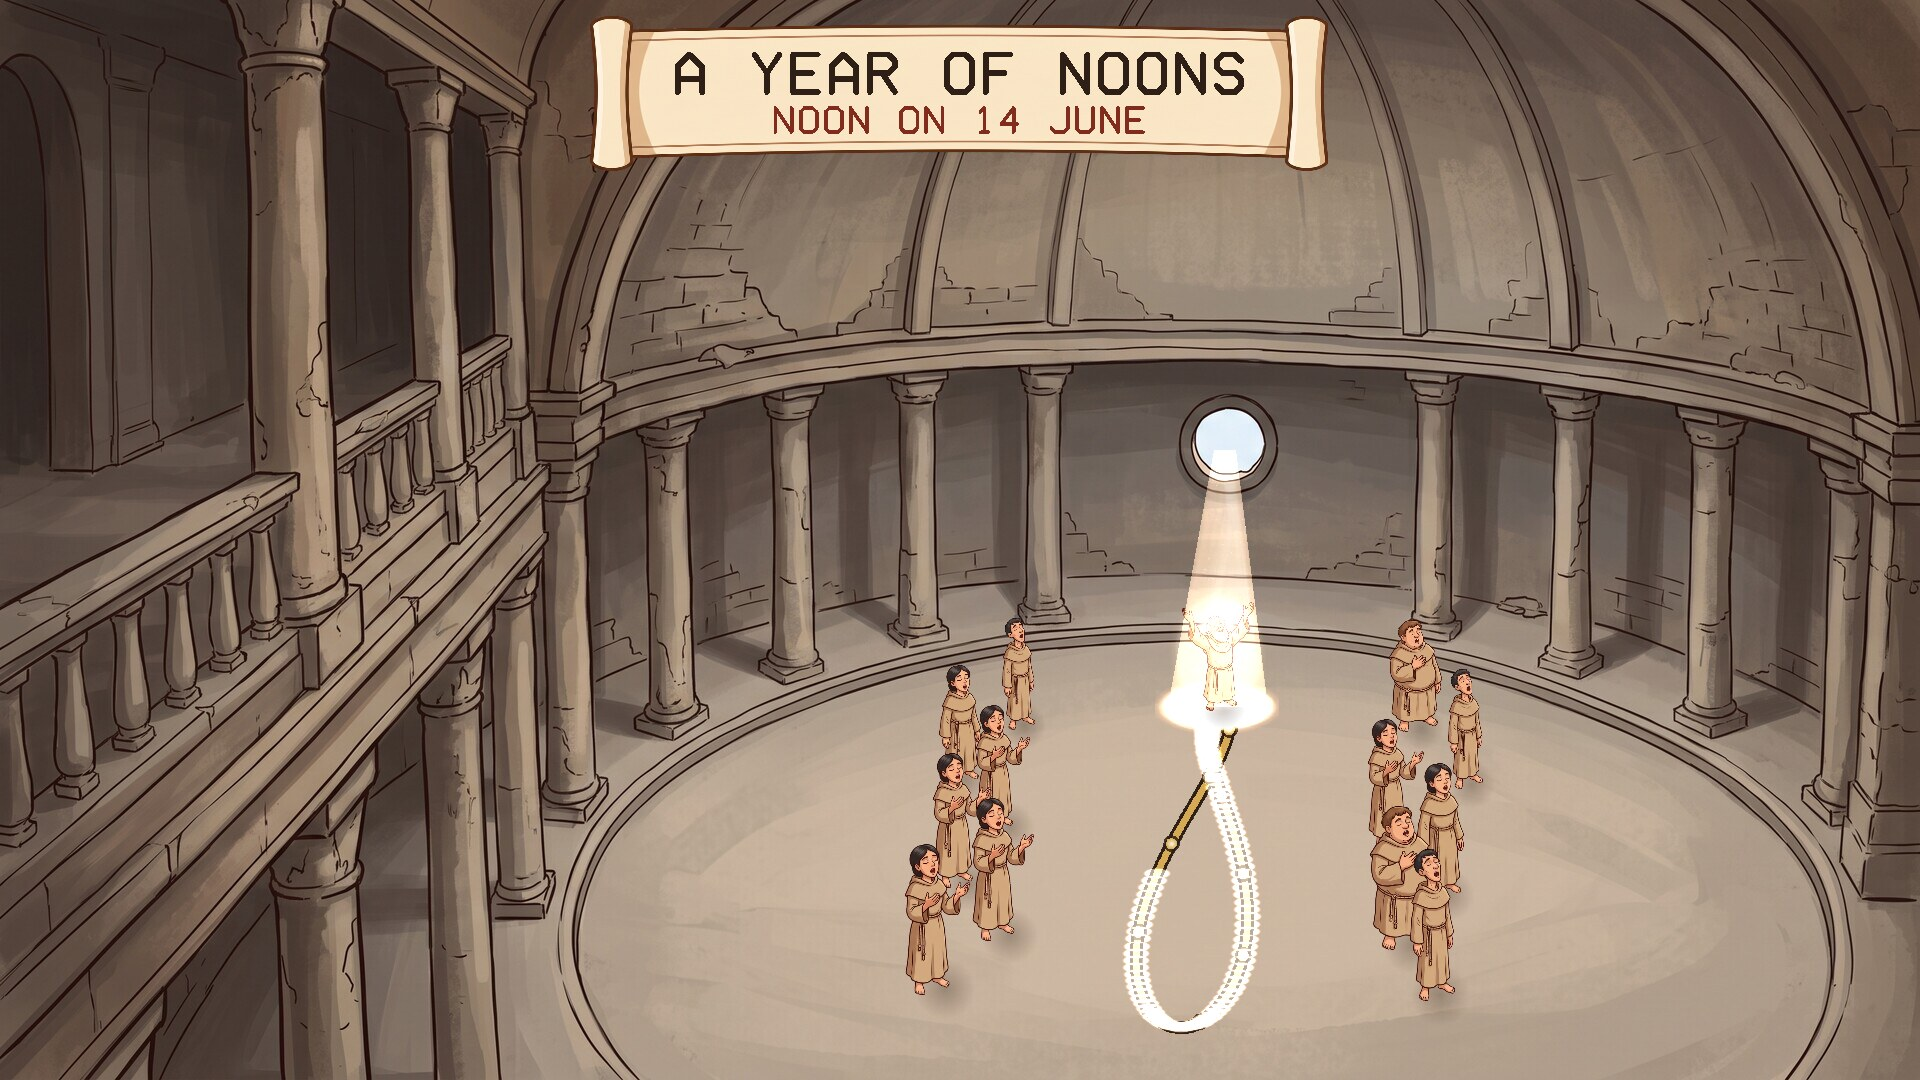
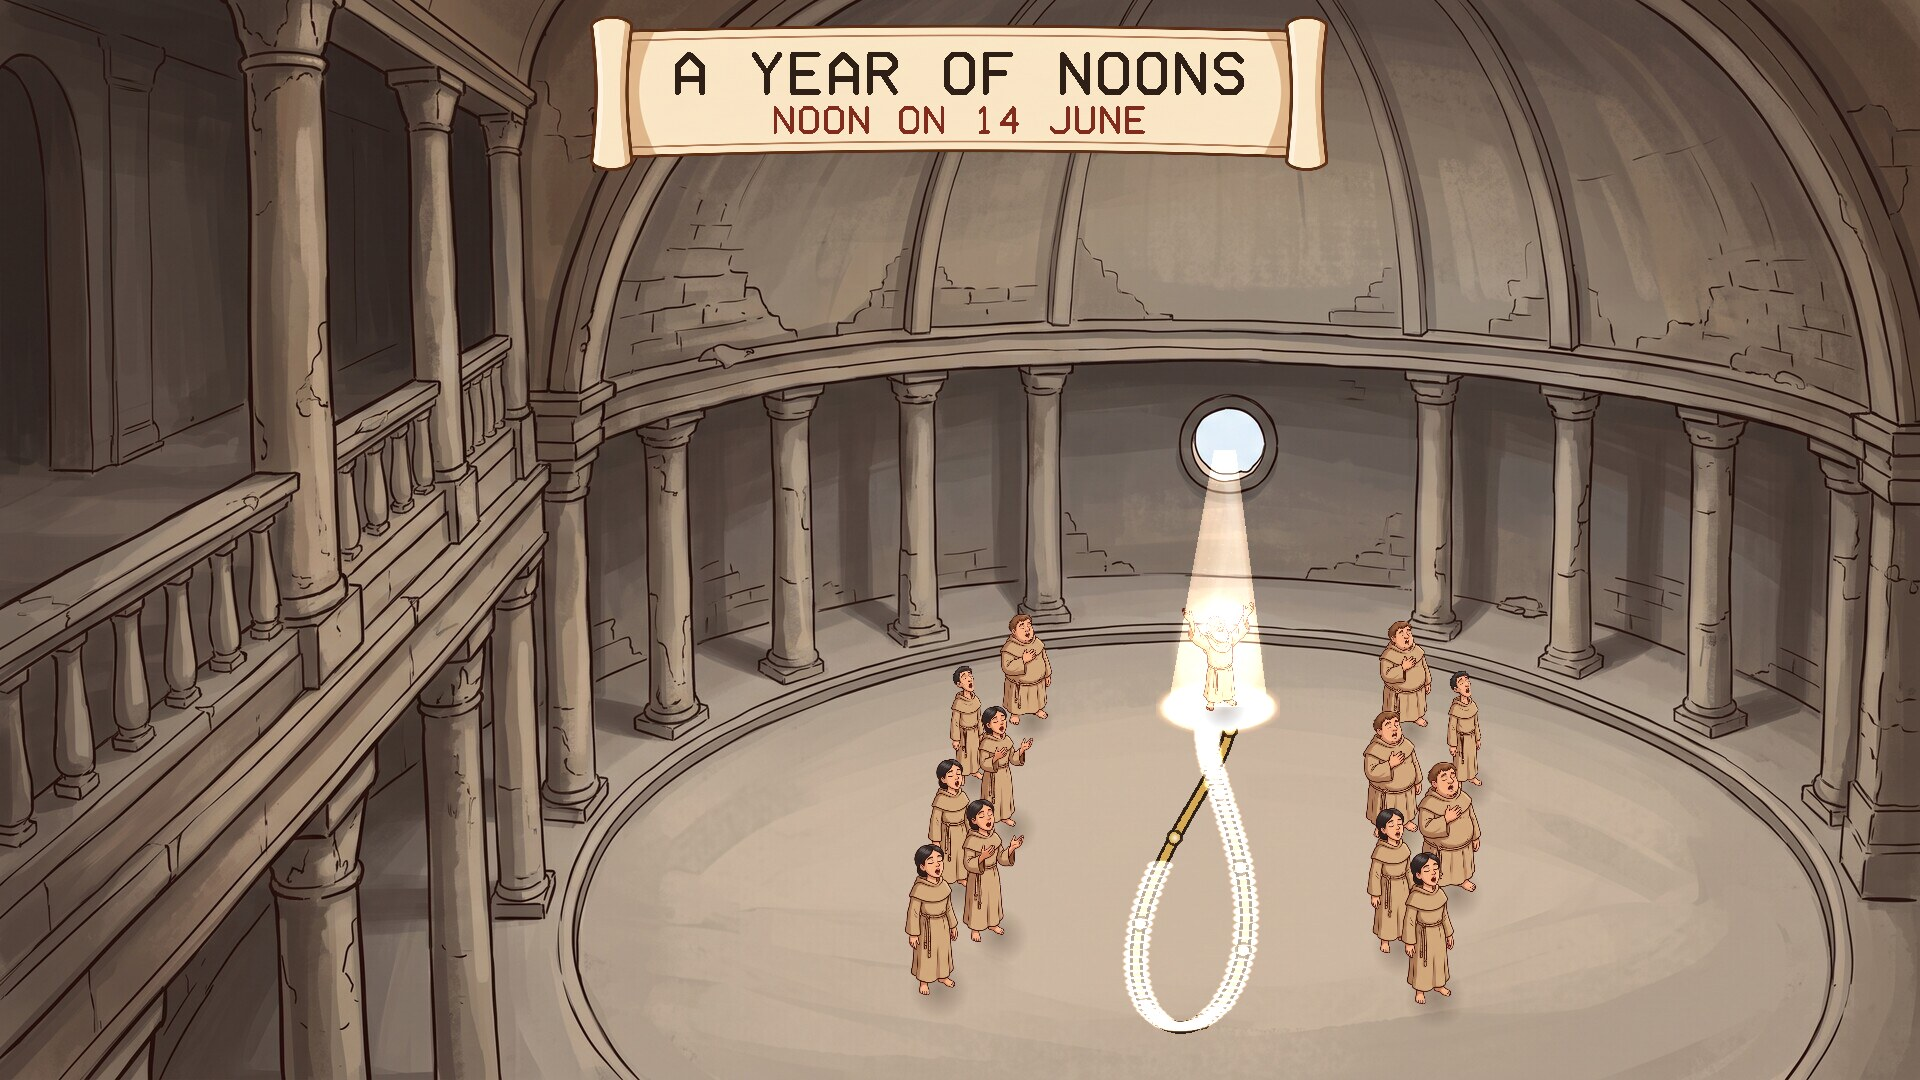
The sun by the Almanac's method, summer time allowed for, the spot drawn out when the sun is low

Changed region(s): [[0.6875, 0.5806, 0.7812, 0.9167], [0.4688, 0.5806, 0.5625, 0.9167], [0.5938, 0.7333, 0.6562, 0.9472]]

diff --git a/src/analemma.c b/src/analemma.c
@@ -256,6 +256,8 @@ static const double SOUTH_U = 0.04, SOUTH_V = 0.9992; /* which way south is on t
 static double T, anim_t;
 static uint64_t seed_state;
 static double now_day, now_hours;  /* today as a day of the year (0 = 1 January), and the time by the clock */
+static double now_clock;           /* the time as the clock shows it, summer time and all */
+static int now_year = 2026;        /* for the sun; the figure shifts very slightly from year to year */
 static int opt_day = -1;           /* --date: show this day instead of today */
 static double opt_hours = -1;      /* --at: show this time instead of now */
 #define T_DAY 11.0   /* noon today */
@@ -280,6 +282,10 @@ static void read_time(void)
     struct tm *tm = localtime(&tt);
     now_day = tm ? tm->tm_yday : 0;
     now_hours = tm ? tm->tm_hour + tm->tm_min / 60.0 + tm->tm_sec / 3600.0 : 12;
+    if (opt_hours >= 0) now_hours = opt_hours;
+    now_clock = now_hours;
+    if (tm) now_year = tm->tm_year + 1900;
+    if (tm && tm->tm_isdst > 0 && opt_hours < 0) now_hours -= 1; /* the sun does not keep summer time */
     if (opt_day >= 0) now_day = opt_day;
     if (opt_hours >= 0) now_hours = opt_hours;
 }
@@ -289,9 +295,15 @@ static void read_time(void)
  * shown, so the spot is only ever seen on the floor and on the figure. *up gets the sun's height (sine). */
 static int spot(double day, double hours, double *x, double *y, double *up)
 {
-    double b = 2 * M_PI * (day - 81) / 364;
-    double eot = 9.87 * sin(2 * b) - 7.53 * cos(b) - 1.5 * sin(b);   /* minutes the sun is ahead of the clock */
-    double decl = 23.45 * M_PI / 180 * sin(2 * M_PI * (284 + day + 1) / 365);
+    /* The sun by the Astronomical Almanac's short method, good to about a hundredth
+     * of a degree: n is days from noon on 1 January 2000, L the mean longitude, g the
+     * mean anomaly, lam the longitude along the ecliptic, eps the tilt of the axis. */
+    double n = (now_year - 2000) * 365 + floor((now_year - 2000 + 3) / 4.0) + day, rad = M_PI / 180;
+    double L = fmod(280.460 + 0.9856474 * n, 360), g = fmod(357.528 + 0.9856003 * n, 360) * rad;
+    double lam = (L + 1.915 * sin(g) + 0.020 * sin(2 * g)) * rad, eps = (23.439 - 0.0000004 * n) * rad;
+    double decl = asin(sin(eps) * sin(lam));
+    /* the equation of time: how far the real sun is ahead of a steady one, in minutes */
+    double eot = 4 * (fmod(L - atan2(cos(eps) * sin(lam), cos(lam)) / rad + 540, 360) - 180);
     double ha = (15 * (hours - 12) + eot / 4) * M_PI / 180, lat = LATITUDE * M_PI / 180;
     double u = sin(lat) * sin(decl) + cos(lat) * cos(decl) * cos(ha);
     double north = cos(lat) * sin(decl) - sin(lat) * cos(decl) * cos(ha), east = -cos(decl) * sin(ha);
@@ -436,7 +448,9 @@ static void draw_scene(SDL_Renderer *r, int w, int h)
     spot(mode == 2 ? day : now_day, 12, &lx, &ly, NULL);      /* the leader stands where today's noon falls */
     double near = on ? shine : 0;
     double pw = w * FLOOR_RX * 0.2, ph = h * FLOOR_RY * 0.2, bright = on ? shine : 0;
-    if (on) light(SP_POOL, fsx(x, y), fsy(x, y), pw, ph, bright);
+    /* the image of the sun is round only when the sun is overhead; lower down it is
+     * drawn out along the floor, away from the hole */
+    if (on) light(SP_POOL, fsx(x, y), fsy(x, y), pw, ph / fmax(up, 0.45), bright);
     if (mode < 2 && shine < 1) { /* where today's noon falls, marked while the light is away */
         double beat = 0.5 + 0.5 * sin(anim_t * 2.4), rr = 0.055 + 0.012 * beat;
         for (int k = 0; k < 40; k++) {
@@ -471,7 +485,7 @@ static void draw_scene(SDL_Renderer *r, int w, int h)
         int mins = (int)(fabs(to_noon) * 60 + 0.5);
         say1 = "THE TEMPLE OF ORITHENA";
         if (on) snprintf(line2, sizeof line2, "%d %s. IT IS NOON", d, MONTH[m]);
-        else snprintf(line2, sizeof line2, "%d %s, %02d:%02d. NOON %s %d H %02d MIN%s", d, MONTH[m], (int)now_hours, (int)(now_hours * 60) % 60,
+        else snprintf(line2, sizeof line2, "%d %s, %02d:%02d. NOON %s %d H %02d MIN%s", d, MONTH[m], (int)now_clock, (int)(now_clock * 60) % 60,
                       to_noon > 0 ? "IS IN" : "WAS", mins / 60, mins % 60, to_noon > 0 ? "" : " AGO");
         if (T > 5.5) say1 = on ? "THE LIGHT IS ON THE ANALEMMA" : sun_now <= 0.02 ? "THE SUN IS DOWN OVER ECBA" :
                             to_noon > 0 ? "THE LEADER WAITS WHERE TODAY'S NOON WILL FALL" : "THE RING MARKS WHERE TODAY'S NOON FELL";

diff --git a/README.md b/README.md
@@ -36,12 +36,37 @@ Three things in turn, about two minutes in all:
 | ![](docs/screenshots/03-a-year-of-noons.jpg) | ![](docs/screenshots/05-the-whole-figure.jpg) |
 | A year of noons | The whole figure traced |
 
-The figure is the true one. The spot is worked out from where the sun really is:
-its height from the time of year, and its running ahead of the clock or behind it
-(the equation of time), which is what makes the curve a figure of eight and not a
-straight line. The brass studs on it mark the first of each month. Noon here means
-twelve by your clock; summer time and where you are in your time zone are not
-allowed for.
+## The science
+
+The figure is the true one, worked out and not drawn by eye.
+
+- **Where the sun is.** For each day the program finds the sun's place by the
+  Astronomical Almanac's short method (mean longitude, mean anomaly, the tilt of
+  the axis), which is good to about a hundredth of a degree. From that come the two
+  things that make an analemma: how far north or south of the equator the sun is
+  that day, and the equation of time, which is how far the real sun runs ahead of
+  a steady clock or behind it.
+- **Why a figure of eight.** If the sun kept perfect time, the noon spot would only
+  move up and down one straight line through the year. Because it runs up to 16
+  minutes fast in early November and 14 minutes slow in February, the spot is
+  carried to one side and then the other, and the line opens into two loops.
+- **Where the spot falls.** A ray from the sun through the hole lands on the floor
+  beyond the hole, as far away as the hole is high divided by the tangent of the
+  sun's height. High summer sun puts it close under the hole; low winter sun
+  throws it far across the floor. Low sun also draws the round image out into an
+  oval, and it is drawn that way.
+
+Checked against the almanac: the ends of the figure are the solstices (21 June and
+21 December), the two loops cross on 12 April and 30 August, the spot is on the
+centre line on 15 April, 12 June, 1 September and 24 December, it is furthest
+east on 8 November and furthest west on 6 February, and the figure is seven times
+as long as it is wide, with the summer loop much the smaller. Those are the right
+dates and proportions for our sun at this latitude.
+
+Two things it cannot know. Noon here is twelve by your clock, with summer time
+taken off; where you are within your time zone is not allowed for, so real noon
+where you live may be up to half an hour or so either side. And the brass studs
+mark the first of each month in a year of 365 days.
 
 ### What is from the book and what is mine
 
@@ -61,7 +86,7 @@ Packages are on the [releases page](../../releases).
 
 ### Windows
 
-Run `Analemma-Setup-1.0.0.exe`. It asks for administrator rights, because Windows
+Run `Analemma-Setup-1.0.1.exe`. It asks for administrator rights, because Windows
 only lists screensavers that are in its own system folder. After that "The Analemma" is in Screen Saver Settings with the others, already selected. Uninstall from
 Apps.
 
@@ -69,11 +94,11 @@ Apps.
 
 **Fedora, Nobara** (built on Fedora 44):
 
-    sudo dnf install ./analemma-1.0.0-1.fc44.x86_64.rpm
+    sudo dnf install ./analemma-1.0.1-1.fc44.x86_64.rpm
 
 **Debian, Ubuntu, Mint** (Ubuntu 24.04 / Debian 13 or later):
 
-    sudo apt install ./analemma_1.0.0_amd64.deb
+    sudo apt install ./analemma_1.0.1_amd64.deb
 
 From your next login it starts by itself after five minutes idle, and any key or
 mouse movement ends it. To start the watcher without logging out, or to change the
